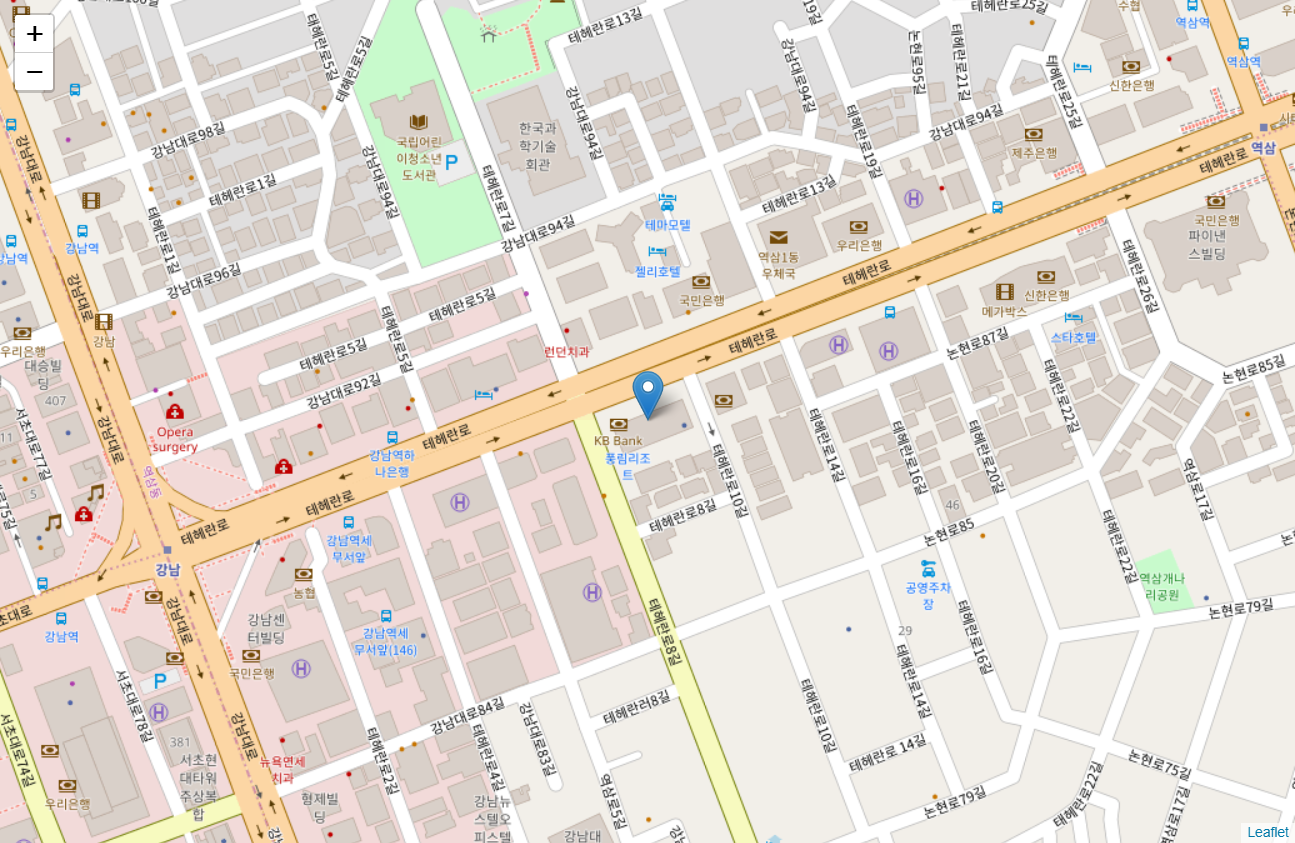
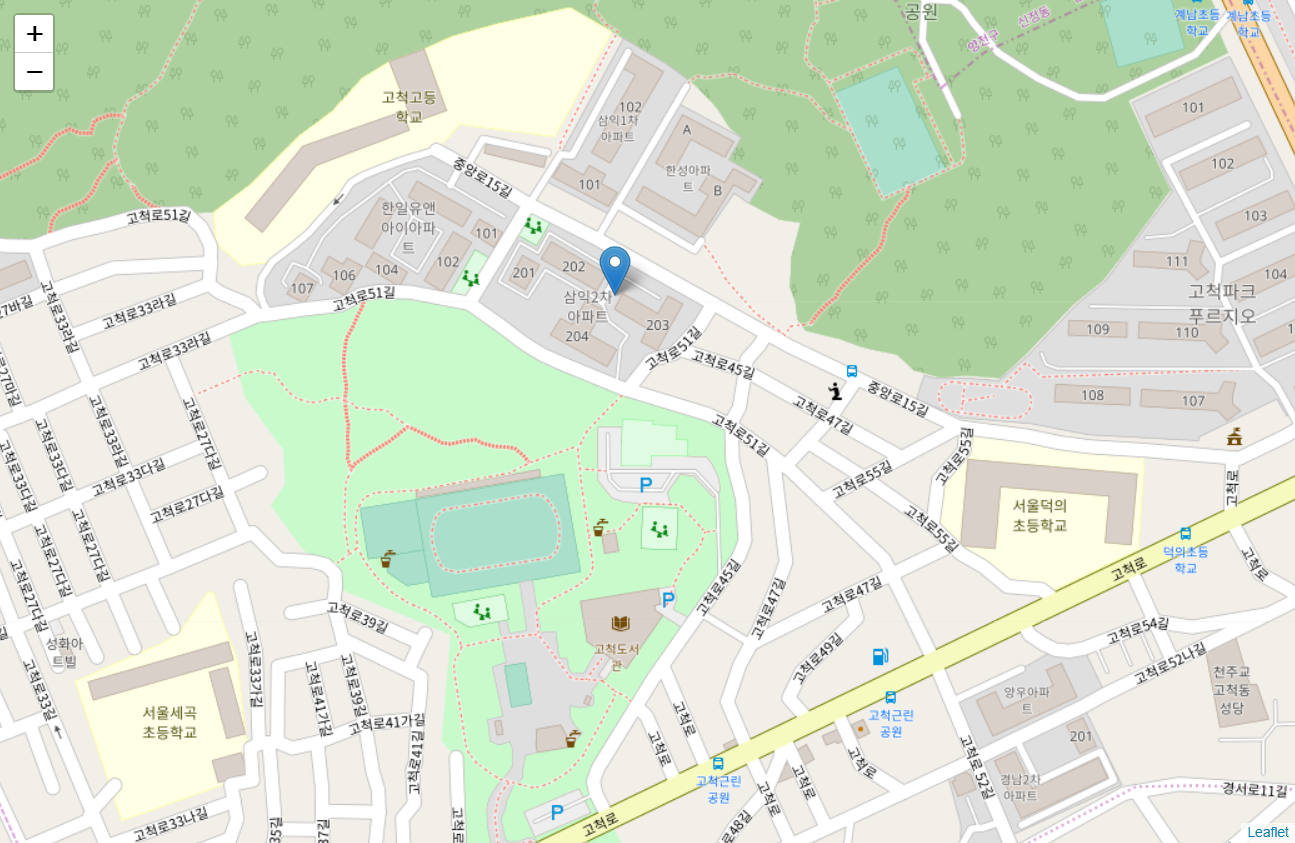
즐겨찾기 지도출력
즐겨찾기에서도 지도가 출력되도록 하였다

diff --git a/ShildMap.html b/ShildMap.html
@@ -17,7 +17,7 @@
     
     <meta name="viewport" content="width=device-width,
         initial-scale=1.0, maximum-scale=1.0, user-scalable=no" />
-    <style>#map_e4205a4a97e54bddbb74f75ec9ca3606 {
+    <style>#map_76576a39de6a40cab7b88030dd10709c {
         position: relative;
         width: 100.0%;
         height: 100.0%;
@@ -28,7 +28,7 @@
 </head>
 <body>    
     
-    <div class="folium-map" id="map_e4205a4a97e54bddbb74f75ec9ca3606" ></div>
+    <div class="folium-map" id="map_76576a39de6a40cab7b88030dd10709c" ></div>
 </body>
 <script>    
     
@@ -36,9 +36,9 @@
         var bounds = null;
     
 
-    var map_e4205a4a97e54bddbb74f75ec9ca3606 = L.map(
-        'map_e4205a4a97e54bddbb74f75ec9ca3606', {
-        center: [37.498819, 127.031672],
+    var map_76576a39de6a40cab7b88030dd10709c = L.map(
+        'map_76576a39de6a40cab7b88030dd10709c', {
+        center: [37.507583, 126.853019],
         zoom: 17,
         maxBounds: bounds,
         layers: [],
@@ -49,7 +49,7 @@
 
 
     
-    var tile_layer_57884c4c69424499ac30a5cc228b5aa9 = L.tileLayer(
+    var tile_layer_e13f24dd9a4a4afba069521c28282fa5 = L.tileLayer(
         'https://{s}.tile.openstreetmap.org/{z}/{x}/{y}.png',
         {
         "attribution": null,
@@ -61,26 +61,26 @@
         "opacity": 1,
         "subdomains": "abc",
         "tms": false
-}).addTo(map_e4205a4a97e54bddbb74f75ec9ca3606);
+}).addTo(map_76576a39de6a40cab7b88030dd10709c);
     
-        var marker_e9703b73136e43bab2cebc1270562f2e = L.marker(
-            [37.498819, 127.031672],
+        var marker_ebbfedb6770f45238855d4ca8fcdf0c8 = L.marker(
+            [37.507583, 126.853019],
             {
                 icon: new L.Icon.Default(),
                 }
-            ).addTo(map_e4205a4a97e54bddbb74f75ec9ca3606);
+            ).addTo(map_76576a39de6a40cab7b88030dd10709c);
         
     
-            var popup_1ba25423815343f7952dc536cbb34319 = L.popup({maxWidth: '100%'
+            var popup_72a933bf61634d42b4774aaa61e5136f = L.popup({maxWidth: '100%'
             
             });
 
             
-                var html_c5a998b0bb454e78b59a5a8fe7cbafff = $(`<div id="html_c5a998b0bb454e78b59a5a8fe7cbafff" style="width: 100.0%; height: 100.0%;">Shild</div>`)[0];
-                popup_1ba25423815343f7952dc536cbb34319.setContent(html_c5a998b0bb454e78b59a5a8fe7cbafff);
+                var html_4ac825dc4cff48c4a78abe81cd9bb626 = $(`<div id="html_4ac825dc4cff48c4a78abe81cd9bb626" style="width: 100.0%; height: 100.0%;">Shild</div>`)[0];
+                popup_72a933bf61634d42b4774aaa61e5136f.setContent(html_4ac825dc4cff48c4a78abe81cd9bb626);
             
 
-            marker_e9703b73136e43bab2cebc1270562f2e.bindPopup(popup_1ba25423815343f7952dc536cbb34319)
+            marker_ebbfedb6770f45238855d4ca8fcdf0c8.bindPopup(popup_72a933bf61634d42b4774aaa61e5136f)
             ;
 
             

diff --git a/bookMarkState.py b/bookMarkState.py
@@ -6,6 +6,10 @@ from bs4 import BeautifulSoup
 
 import framework
 import pickle
+import os
+import folium
+from selenium import webdriver
+
 
 class BookMarkState:
     def __init__(self):
@@ -30,6 +34,22 @@ class BookMarkState:
             shelter=framework.bookMarkList[n[0]]
             i=shelter.rddr.index('(')
             self.l1.configure(text='시설명:'+str(shelter.facility_name)+'\n-도로명 주소-\n'+shelter.rddr[0:i]+'\n'+shelter.rddr[i:]+'\n-지번주소-\n'+shelter.addr)
+
+            lat = float(shelter.latitude)
+            lon = float(shelter.longtitude)
+            map_osm = folium.Map(location=[lat, lon], zoom_start=17)
+            folium.Marker([lat, lon], popup='Shild').add_to(map_osm)
+            map_osm.save('ShildMap.html')
+            tmpurl = 'file:///' + os.getcwd() + '/ShildMap.html'
+            options = webdriver.ChromeOptions()
+            driver = webdriver.Chrome(chrome_options=options)
+            driver.get(tmpurl)
+            driver.save_screenshot("Shild.png")
+
+            driver.close()
+            Map = PhotoImage(file="Shild.png")
+            self.L2.configure(image=Map)
+            self.L2.image = Map
             pass
 
     def enter(self):
@@ -37,9 +57,9 @@ class BookMarkState:
         self.window.title('SearchState')
         self.window.geometry('600x600' )
 
-
-        self.frame=Frame(self.window,width=500,height=250,bg='white')  #지도
-        self.frame.place(x=50,y=250)
+        Photo = PhotoImage(file="Shild_Main_Map.png")
+        self.L2=Label(self.window,width=500,height=250,image=Photo,bg='white')  #지도
+        self.L2.place(x=50,y=250)
         #----------------------------------------------------------------------------------
         self.l1=Label(self.window,width=70,height=7,bg='white')      #정보란
         self.l1.place(x=50,y=120)
